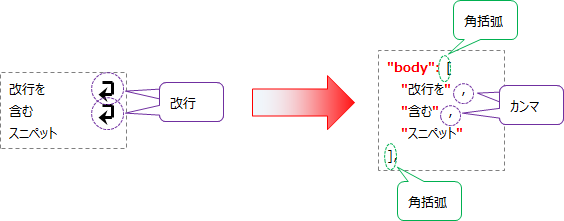
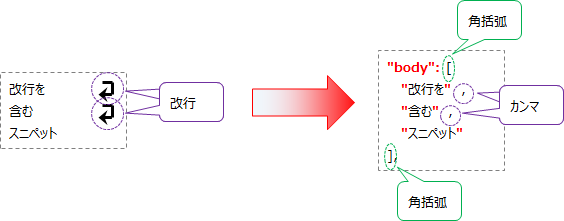
default message

Changed region(s): [[0.7535, 0.0, 0.9344, 0.3801]]

diff --git a/TIPS/04_開発環境/01_Visual Studio/プロジェクトテンプレートの作成.html b/TIPS/04_開発環境/01_Visual Studio/プロジェクトテンプレートの作成.html
@@ -1,16 +1,127 @@
 <!DOCTYPE html>
-<!-- 基準URI -->匁<base href="https://takaha-q.github.io/">
-<!-- スタイルシート -->匁<link rel="stylesheet" href="Sytle001.css" type="text/css">
-<!-- スクリプト -->匁<!-- タイトル表示 -->匁<script src="MakeTitle.js" type="text/javascript"></script>
-<!-- 目次表示 -->匁<script src="MakeToc_L.js" type="text/javascript"></script>
-<!-- ページタイトル(ページ内表示) -->匁<span id="title"></span>
-<!-- リンク(ホームに戻る) -->匁<a href="index.html">ホームに戻る</a>
-<!-- 出典ページ -->匁<details><summary class=link>出典 :</summary>匁    <div class=pre><a href="https://learn.microsoft.com/ja-jp/visualstudio/ide/how-to-create-project-templates?view=vs-2022">ウィザードまたは XML ファイルを使用してプロジェクト テンプレートを作成する - Visual Studio (Windows) | Microsoft Learn</a>匁    <a href="https://learn.microsoft.com/ja-jp/visualstudio/ide/creating-project-and-item-templates?view=vs-2022">プロジェクトとファイルのテンプレート - Visual Studio (Windows) | Microsoft Learn</a>匁    <a href="https://learn.microsoft.com/ja-jp/visualstudio/ide/template-parameters?view=vs-2022">プロジェクト テンプレートと項目テンプレートのパラメーター - Visual Studio (Windows) | Microsoft Learn</a>匁    <a href="https://learn.microsoft.com/ja-jp/visualstudio/ide/how-to-substitute-parameters-in-a-template?view=vs-2022">プロジェクトと項目テンプレートに名前パラメーターを追加する - Visual Studio (Windows) | Microsoft Learn</a>匁    <a href="https://qiita.com/kamikawa_m/items/75c337f101d9d2f6080e">Visual Studioから利用できるプロジェクトテンプレートを作成する #C# - Qiita</a>匁    </div>匁    </details>匁    匁<!-- 関連ページ -->匁<details><summary class=link>関連 :</summary>匁<div class=pre><a href="プロジェクトの場所(デフォルト).html">プロジェクトの場所(デフォルト)</a>
+<!-- 基準URI -->
+<base href="https://takaha-q.github.io/">
+<!-- スタイルシート -->
+<link rel="stylesheet" href="Sytle001.css" type="text/css">
+<!-- スクリプト -->
+<!-- タイトル表示 -->
+<script src="MakeTitle.js" type="text/javascript"></script>
+<!-- 目次表示 -->
+<script src="MakeToc_L.js" type="text/javascript"></script>
+<!-- ページタイトル(ページ内表示) -->
+<span id="title"></span>
+<!-- リンク(ホームに戻る) -->
+<a href="index.html">ホームに戻る</a>
+<!-- 出典ページ -->
+<details><summary class=link>出典 :</summary>
+<div class=pre><a href="https://learn.microsoft.com/ja-jp/visualstudio/ide/creating-project-and-item-templates?view=vs-2022">プロジェクトとファイルのテンプレート - Visual Studio (Windows) | Microsoft Learn</a>
+    <a href="https://learn.microsoft.com/ja-jp/visualstudio/ide/how-to-create-project-templates?view=vs-2022">ウィザードまたは XML ファイルを使用してプロジェクト テンプレートを作成する - Visual Studio (Windows) | Microsoft Learn</a>
+    <a href="https://learn.microsoft.com/ja-jp/visualstudio/ide/template-parameters?view=vs-2022">プロジェクト テンプレートと項目テンプレートのパラメーター - Visual Studio (Windows) | Microsoft Learn</a>
+<a href="https://learn.microsoft.com/ja-jp/visualstudio/ide/how-to-substitute-parameters-in-a-template?view=vs-2022">プロジェクトと項目テンプレートに名前パラメーターを追加する - Visual Studio (Windows) | Microsoft Learn</a>
+<a href="https://learn.microsoft.com/ja-jp/visualstudio/ide/how-to-update-existing-templates?view=vs-2022">既存のプロジェクト項目テンプレートの更新 - Visual Studio (Windows) | Microsoft Learn</a>
+<a href="https://learn.microsoft.com/ja-jp/visualstudio/extensibility/visual-studio-template-schema-reference?view=vs-2022">Visual Studio テンプレート スキーマ参照 - Visual Studio (Windows) | Microsoft Learn</a>
+<a href="https://qiita.com/kamikawa_m/items/75c337f101d9d2f6080e">Visual Studioから利用できるプロジェクトテンプレートを作成する #C# - Qiita</a>
 </div></details>
-<!-- 目次 -->匁<h5>目次 :</h5>匁<div id="toc"></div>匁<hr>
-<!-- 本文ここから -->匁<h2>Visual Studioプロジェクトテンプレートの作成</h2>匁プロジェクトに含まれるファイル群を再利用しやすいよう、テンプレート化することができる。<br>匁以下、Visual Studio 2022を例に挙げる。
-<h2>テンプレートに含まれるファイル</h2>匁プロジェクトに含まれるすべてのファイルおよびフォルダが対象となる。<br>
-<h2>手順</h2>匁<h3>テンプレートの保存</h3>匁<ol>匁    <li>出力するプロジェクトを整理する。<br>(テンプレートに不要なファイルやコードの削除)</li>匁    <li>「プロジェクト」>「テンプレートのエクスポート」を選択する。<br>匁    <img src="https://raw.githubusercontent.com/Takaha-Q/Takaha-Q.github.io/main/_Img\MSVS\Project_Template\05.png" alt="画像"></li>匁</ol>
-<h3>作成したテンプレートの呼び出し</h3>匁手順1で作成したテンプレートは、標準のテンプレートと異なりタグが付与されていないため、絞り込みを解除しなければ表示されない。<br>匁(「すべての言語」、「すべてのプラットフォーム」、「すべてのプロジェクトの種類」を選択することで表示される。)<br>匁テンプレートを特定できる語句を検索欄に入力し、テンプレートを選択する。以降の手順は標準テンプレートを用いる場合と同様。<br>匁<img src="https://raw.githubusercontent.com/Takaha-Q/Takaha-Q.github.io/main/_Img\MSVS\Project_Template\06.png" alt="画像">
-<h3>テンプレートのインポート・削除</h3>匁C:\Users\[ユーザ名]\Documents\Visual Studio 2022\Templates\ProjectTemplates<br>匁にテンプレート(ZIP)を配置すると、呼び出し候補に含まれるようになる。<br>匁テンプレート(ZIP)を削除すると、呼び出し候補に含まれなくなる。<br>匁<img src="https://raw.githubusercontent.com/Takaha-Q/Takaha-Q.github.io/main/_Img\MSVS\Project_Template\07.png" alt="画像">
+    
+<!-- 関連ページ -->
+<details><summary class=link>関連 :</summary>
+<div class=pre><a href="TIPS/04_開発環境/01_Visual Studio/プロジェクトの場所(デフォルト).html">プロジェクトの場所(デフォルト)</a>
+</div></details>
+<!-- 目次 -->
+<h5>目次 :</h5>
+<div id="toc"></div>
+<hr>
+<!-- 本文ここから -->
+
+<h2>Visual Studioプロジェクトテンプレートの作成</h2>
+<div class=pre>プロジェクトテンプレートを作成することで、ファイル群を再利用してプロジェクト作成の手間を省くことができる。
+テンプレートにはプロジェクト配下のすべてのファイルおよびフォルダが含まれる。
+以下、Visual Studio 2022を例に挙げる。
+</div>
+
+<h2>手順</h2>
+<h3>1. テンプレートの作成</h3>
+<ol>
+    <li><span class=pre>出力するプロジェクトを整理する。
+        (テンプレートに不要なファイルやコードの削除)</span></li>
+    <li><span class=pre>「プロジェクト」>「テンプレートのエクスポート」を選択する。
+        <img src="https://raw.githubusercontent.com/Takaha-Q/Takaha-Q.github.io/main/_Img/MSVS/Project_Template/01.png" alt="画像"></span></li>
+    <li><span class=pre>ラジオボタン「プロジェクト テンプレート」にチェックを入れ、
+        テンプレートの元にするプロジェクトを選択し、「次へ」をクリックする。
+        <img src="https://raw.githubusercontent.com/Takaha-Q/Takaha-Q.github.io/main/_Img/MSVS/Project_Template/02.png" alt="画像"></span></li>
+    <li><span class=pre>「テンプレート名」、「テンプレートの説明」を入力し、「完了」をクリックすると、「出力場所」にテンプレート(ZIP)が出力される。
+        このとき、「テンプレートを自動的にVisual Studioにインポート」にチェックが入っていると、作成したテンプレートがインポートされ、使用可能となる。
+        <img src="https://raw.githubusercontent.com/Takaha-Q/Takaha-Q.github.io/main/_Img/MSVS/Project_Template/03.png" alt="画像"></span></li>
+</ol>
+
+<h3>2. テンプレートのインポート</h3>
+<div class=pre>
+    手順1-4で「テンプレートを自動的にVisual Studioにインポート」にチェックを入れた場合はこの手順は不要。
+</div>
+
+<ol>
+    <li><span class=pre>ユーザープロジェクトテンプレートの場所を確認する。任意の場所に変更してもよい。
+            (<a href="TIPS/04_開発環境/01_Visual Studio/プロジェクトの場所(デフォルト).html">プロジェクトの場所(デフォルト)</a>参照。)
+    </span></li>
+    <li><span class=pre>1. の場所にプロジェクトテンプレート(ZIP)を配置する。
+        サブディレクトリ(1. でプロジェクトテンプレートの場所を変更するとサブディレクトリが自動生成される)への配置も可能だが、
+        有効なサブディレクトリ名は限られていることに注意。
+        <img src="https://raw.githubusercontent.com/Takaha-Q/Takaha-Q.github.io/main/_Img/MSVS/Project_Template/04.png" alt="画像"></span></li>
+    <li><span class=pre>2. で配置したテンプレートを削除すると、そのテンプレートは使用できなくなる。</span></li>
+</ol>
+
+<h3>3. テンプレートの呼び出し</h3>
+<div class=pre>手順1で作成したテンプレートは組み込みのテンプレートと同様、プロジェクトの新規作成時に雛形として使用できる。
+    ただし、組み込みテンプレートと異なり、プラットフォームおよびプロジェクト種類のタグが付与されていない。
+    (「言語」はテンプレート作成時に元となったプロジェクトのものが適用される。)
+    「すべてのプラットフォーム」、「すべてのプロジェクトの種類」を選択して絞り込みを解除した上で
+    テンプレートを特定できる語句を検索欄に入力し、テンプレートを選択する。
+    以降は組み込みテンプレートと同様。
+    <img src="https://raw.githubusercontent.com/Takaha-Q/Takaha-Q.github.io/main/_Img\MSVS\Project_Template\05.png" alt="画像">
+</div>
+
+<h3>4. テンプレートの編集</h3>
+<div class=pre>    ※この節は書きかけです。
+    ZIPを解凍し、VSTEMPLATE ファイルを編集することでプロジェクト情報を変更することができる。ファイルの実体はXML。
+    VSTEMPLATE の各要素は<a href="https://learn.microsoft.com/ja-jp/visualstudio/extensibility/visual-studio-template-schema-reference?view=vs-2022">リファレンス</a>を参照。
+</div>
+
+<h4>VSTEMPLATE の例</h4>
+<div class=xaml>
+&lt;<tag>VSTemplate</tag> <prp>Version</prp>=<ltr>"3.0.0"</ltr> <prp>xmlns</prp>=<ltr>"http://schemas.microsoft.com/developer/vstemplate/2005"</ltr> <prp>Type</prp>=<ltr>"Project"</ltr>&gt;
+    &lt;<tag>TemplateData</tag>&gt;
+        &lt;<tag>Name</tag>&gt;WPF_App_Standard&lt;<tag>/Name</tag>&gt;
+        &lt;<tag>Description</tag>&gt;WPFアプリケーション 標準テンプレート&lt;<tag>/Description</tag>&gt;
+        &lt;<tag>ProjectType</tag>&gt;CSharp&lt;<tag>/ProjectType</tag>&gt;
+        &lt;<tag>ProjectSubType</tag>&gt;
+        &lt;<tag>/ProjectSubType</tag>&gt;
+        &lt;<tag>SortOrder</tag>&gt;1000&lt;<tag>/SortOrder</tag>&gt;
+        &lt;<tag>CreateNewFolder</tag>&gt;true&lt;<tag>/CreateNewFolder</tag>&gt;
+        &lt;<tag>DefaultName</tag>&gt;WPF_App_Standard&lt;<tag>/DefaultName</tag>&gt;
+        &lt;<tag>ProvideDefaultName</tag>&gt;true&lt;<tag>/ProvideDefaultName</tag>&gt;
+        &lt;<tag>LocationField</tag>&gt;Enabled&lt;<tag>/LocationField</tag>&gt;
+        &lt;<tag>EnableLocationBrowseButton</tag>&gt;true&lt;<tag>/EnableLocationBrowseButton</tag>&gt;
+        &lt;<tag>CreateInPlace</tag>&gt;true&lt;<tag>/CreateInPlace</tag>&gt;
+        &lt;<tag>Icon</tag>&gt;__TemplateIcon.ico&lt;<tag>/Icon</tag>&gt;
+    &lt;<tag>/TemplateData</tag>&gt;
+    &lt;<tag>TemplateContent</tag>&gt;
+        &lt;<tag>Project</tag> <prp>TargetFileName</prp>=<ltr>"WPF_App_Standard.csproj"</ltr> <prp>File</prp>=<ltr>"WPF_App_Standard.csproj"</ltr> <prp>ReplaceParameters</prp>=<ltr>"true"</ltr>&gt;
+            &lt;<tag>Folder</tag> <prp>Name</prp>=<ltr>"_Asset"</ltr> <prp>TargetFolderName</prp>=<ltr>"_Asset"</ltr> /&gt;
+            &lt;<tag>Folder</tag> <prp>Name</prp>=<ltr>"_Converter"</ltr> <prp>TargetFolderName</prp>=<ltr>"_Converter"</ltr> /&gt;
+            &lt;<tag>Folder</tag> <prp>Name</prp>=<ltr>"_CustomControl"</ltr> <prp>TargetFolderName</prp>=<ltr>"_CustomControl"</ltr> /&gt;
+            &lt;<tag>Folder</tag> <prp>Name</prp>=<ltr>"_Style"</ltr> <prp>TargetFolderName</prp>=<ltr>"_Style"</ltr> /&gt;
+            &lt;<tag>Folder</tag> <prp>Name</prp>=<ltr>"_UserControl"</ltr> <prp>TargetFolderName</prp>=<ltr>"_UserControl"</ltr> /&gt;
+            &lt;<tag>Folder</tag> <prp>Name</prp>=<ltr>"_Window"</ltr> <prp>TargetFolderName</prp>=<ltr>"_Window"</ltr>&gt;
+                &lt;<tag>Folder</tag> <prp>Name</prp>=<ltr>"MainWindow"</ltr> <prp>TargetFolderName</prp>=<ltr>"MainWindow"</ltr>&gt;
+                    &lt;<tag>ProjectItem</tag> <prp>ReplaceParameters</prp>=<ltr>"true"</ltr> <prp>TargetFileName</prp>=<ltr>"MainWindow.xaml"</ltr>&gt;MainWindow.xaml&lt;<tag>/ProjectItem</tag>&gt;
+                    &lt;<tag>ProjectItem</tag> <prp>ReplaceParameters</prp>=<ltr>"true"</ltr> <prp>TargetFileName</prp>=<ltr>"MainWindow.xaml.cs"</ltr>&gt;MainWindow.xaml.cs&lt;<tag>/ProjectItem</tag>&gt;
+                &lt;<tag>/Folder</tag>&gt;
+            &lt;<tag>/Folder</tag>&gt;
+            &lt;<tag>ProjectItem</tag> <prp>ReplaceParameters</prp>=<ltr>"true"</ltr> <prp>TargetFileName</prp>=<ltr>"App.xaml"</ltr>&gt;App.xaml&lt;<tag>/ProjectItem</tag>&gt;
+            &lt;<tag>ProjectItem</tag> <prp>ReplaceParameters</prp>=<ltr>"true"</ltr> <prp>TargetFileName</prp>=<ltr>"App.xaml.cs"</ltr>&gt;App.xaml.cs&lt;<tag>/ProjectItem</tag>&gt;
+            &lt;<tag>ProjectItem</tag> <prp>ReplaceParameters</prp>=<ltr>"true"</ltr> <prp>TargetFileName</prp>=<ltr>"AssemblyInfo.cs"</ltr>&gt;AssemblyInfo.cs&lt;<tag>/ProjectItem</tag>&gt;
+        &lt;<tag>/Project</tag>&gt;
+    &lt;<tag>/TemplateContent</tag>&gt;
+&lt;<tag>/VSTemplate</tag>&gt;
+</div>
 

diff --git a/TIPS/04_開発環境/04_Visual Studio Code/スニペット(VS Code).html b/TIPS/04_開発環境/04_Visual Studio Code/スニペット(VS Code).html
@@ -1,26 +1,78 @@
 <!DOCTYPE html>
-<!-- 基準URI -->匁<base href="https://takaha-q.github.io/">
-<!-- スタイルシート -->匁<link rel="stylesheet" href="Sytle001.css" type="text/css">
-<!-- スクリプト -->匁<!-- タイトル表示 -->匁<script src="MakeTitle.js" type="text/javascript"></script>
-<!-- 目次表示 -->匁<script src="MakeToc_L.js" type="text/javascript"></script>
-<!-- ページタイトル(ページ内表示) -->匁<span id="title"></span>
-<!-- リンク(ホームに戻る) -->匁<a href="index.html">ホームに戻る</a>
+<!-- 基準URI -->
+<base href="https://takaha-q.github.io/">
+<!-- スタイルシート -->
+<link rel="stylesheet" href="Sytle001.css" type="text/css">
+<!-- スクリプト -->
+<!-- タイトル表示 -->
+<script src="MakeTitle.js" type="text/javascript"></script>
+<!-- 目次表示 -->
+<script src="MakeToc_L.js" type="text/javascript"></script>
+<!-- ページタイトル(ページ内表示) -->
+<span id="title"></span>
+<!-- リンク(ホームに戻る) -->
+<a href="index.html">ホームに戻る</a>
 <!-- 出典ページ -->
 </div></details>
-<!-- 関連ページ -->匁<details><summary class=link>関連 :</summary>匁<div class=pre><a href="TIPS/04_開発環境/01_Visual Studio/スニペット(Visual Studio).html">[Visual Studio]スニペット</a>
+<!-- 関連ページ -->
+<details><summary class=link>関連 :</summary>
+<div class=pre><a href="TIPS/04_開発環境/01_Visual Studio/スニペット(Visual Studio).html">[Visual Studio]スニペット</a>
 </div></details>
-<!-- 目次 -->匁<h5>目次 :</h5>匁<div id="toc"></div>匁<hr>
+<!-- 目次 -->
+<h5>目次 :</h5>
+<div id="toc"></div>
+<hr>
 <!-- 本文ここから -->
-<h2>スニペット(ユーザスニペット)の作成</h2>匁よく使う定型文をスニペットとして登録しておくと、簡単に呼び出すことができる。
+<h2>スニペット(ユーザスニペット)の作成</h2>
+よく使う定型文をスニペットとして登録しておくと、簡単に呼び出すことができる。
 <h2>手順</h2>
-<ol>匁<li>匁「設定(歯車アイコン)」>「スニペット」を選択する。<br>匁(旧バージョン : 「ユーザー スニペット」表記)匁<img src="https://raw.githubusercontent.com/Takaha-Q/Takaha-Q.github.io/main/_Img/VSCode/Make_User_Snippet/01.png" alt="画像"><br>匁</li>
-<li>匁スニペットを呼び出すファイル形式を選択する。<br>匁(HTMLファイルであれば html.json )<br>匁<img src="https://raw.githubusercontent.com/Takaha-Q/Takaha-Q.github.io/main/_Img/VSCode/Make_User_Snippet/02.png" alt="画像"><br>匁</li>
-<li>匁JSONファイルが開くので、登録したいスニペットを記述する。<br>匁<img src="https://raw.githubusercontent.com/Takaha-Q/Takaha-Q.github.io/main/_Img/VSCode/Make_User_Snippet/03.png" alt="画像"><br>匁</li>
-<li>匁JSONを上書き保存すると、スニペットが使用可能となる。匁</li>匁</ol>
-<h2>スニペットの記述</h2>匁<div class="code">匁"Snippet #1": {                     <cmt>//< スニペット名 </cmt>匁    "prefix":      "inputStr",      <cmt>//< 入力文字列 </cmt>匁    "body":        "content",       <cmt>//< 展開される内容 </cmt>匁    "description": "What am I"      <cmt>//< スニペットの説明 </cmt>匁},
-"Snippet #2": {                     <cmt>//< スニペット名 </cmt>匁    "prefix":      "inputStr02",    <cmt>//< 入力文字列 </cmt>匁    "body":        "content02",     <cmt>//< 展開される内容 </cmt>匁    "description": "What am I"      <cmt>//< スニペットの説明 </cmt>匁},匁</div>
-<div class=pre>匁"prefix" にスニペットを呼び出す際に入力する文字列を、匁"body" に呼び出される文字列を記述する(詳細は後述)。匁この例では、inputStr と入力し、Tab キーを押すことで匁content 匁を呼び出すことができる。
-また、一つのJSONファイルには複数のスニペットを定義できる。スニペット同士は , (カンマ)で区切る。匁(この例では Snippet #1 、Snippet #2 の2つを定義している。末尾のカンマは削除しなくてもよい。)匁</div>
-<h3>body 要素記述時の注意点</h3>匁<ul>匁    <li>二重引用符はエスケープが必要( " を \" に置き換える)。<br>匁    <img src="https://raw.githubusercontent.com/Takaha-Q/Takaha-Q.github.io/main/_Img/VSCode/Make_User_Snippet/05.png" alt="画像"></li>匁</ul>
-匁
+<ol>
+<li>
+「設定(歯車アイコン)」>「スニペット」を選択する。<br>
+(旧バージョン : 「ユーザー スニペット」表記)<br>
+<img src="https://raw.githubusercontent.com/Takaha-Q/Takaha-Q.github.io/main/_Img/VSCode/Make_User_Snippet/01.png" alt="画像"><br>
+</li>
+<li>
+スニペットを呼び出すファイル形式を選択する。<br>
+(HTMLファイルであれば html.json )<br>
+<img src="https://raw.githubusercontent.com/Takaha-Q/Takaha-Q.github.io/main/_Img/VSCode/Make_User_Snippet/02.png" alt="画像"><br>
+</li>
+<li>
+JSONファイルが開くので、登録したいスニペットを記述する。<br>
+<img src="https://raw.githubusercontent.com/Takaha-Q/Takaha-Q.github.io/main/_Img/VSCode/Make_User_Snippet/03.png" alt="画像"><br>
+</li>
+<li>
+JSONを上書き保存すると、スニペットが使用可能となる。
+</li>
+</ol>
+<h2>スニペットの記述</h2>
+<div class="code">
+"Snippet #1": {                     <cmt>//< スニペット名 </cmt>
+    "prefix":      "inputStr",      <cmt>//< 入力文字列 </cmt>
+    "body":        "content",       <cmt>//< 展開される内容 </cmt>
+    "description": "What am I"      <cmt>//< スニペットの説明 </cmt>
+},
+"Snippet #2": {                     <cmt>//< スニペット名 </cmt>
+    "prefix":      "inputStr02",    <cmt>//< 入力文字列 </cmt>
+    "body":        "content02",     <cmt>//< 展開される内容 </cmt>
+    "description": "What am I"      <cmt>//< スニペットの説明 </cmt>
+},
+</div>
+<div class=pre>
+"prefix" にスニペットを呼び出す際に入力する文字列を、
+"body" に呼び出される文字列を記述する(詳細は後述)。
+この例では、inputStr と入力し、Tab キーを押すことで
+content 
+を呼び出すことができる。
+また、一つのJSONファイルには複数のスニペットを定義できる。スニペット同士は , (カンマ)で区切る。
+(この例では Snippet #1 、Snippet #2 の2つを定義している。末尾のカンマは削除しなくてもよい。)
+</div>
+<h3>body 要素記述時の注意点</h3>
+<ul>
+    <li>二重引用符はエスケープが必要( " を \" に置き換える)。<br>
+        <img src="https://raw.githubusercontent.com/Takaha-Q/Takaha-Q.github.io/main/_Img/VSCode/Make_User_Snippet/04.png" alt="画像"></li>
+    <li>改行を含む場合は行ごとにひとつの語句とし、角括弧で束ねる。<br>
+        (改行をそのまま記述するとエラーとなる。)<br>
+        <img src="https://raw.githubusercontent.com/Takaha-Q/Takaha-Q.github.io/main/_Img/VSCode/Make_User_Snippet/05.png" alt="画像"></li>
+</ul>
 

diff --git a/TIPS/04_開発環境/01_Visual Studio/プロジェクトの場所(デフォルト).html b/TIPS/04_開発環境/01_Visual Studio/プロジェクトの場所(デフォルト).html
@@ -1,7 +1,29 @@
-<!DOCTYPE html>匁<!-- 基準URI -->匁<base href="https://takaha-q.github.io/">匁<!-- スタイルシート -->匁<link rel="stylesheet" href="Sytle001.css" type="text/css">匁<!-- スクリプト -->匁<!-- タイトル表示 -->匁<script src="MakeTitle.js" type="text/javascript"></script>匁<!-- 目次表示 -->匁<script src="MakeToc_L.js" type="text/javascript"></script>匁<!-- ページタイトル(ページ内表示) -->匁<span id="title"></span>匁<!-- リンク(ホームに戻る) -->匁<a href="index.html">ホームに戻る</a>匁<hr>
-<!-- 関連ページ -->匁<details><summary class=link>関連 :</summary>匁<div class=pre><a href="https://takaha-q.github.io/TIPS/04_%E9%96%8B%E7%99%BA%E7%92%B0%E5%A2%83/01_Visual%20Studio/%E3%83%97%E3%83%AD%E3%82%B8%E3%82%A7%E3%82%AF%E3%83%88%E3%83%86%E3%83%B3%E3%83%97%E3%83%AC%E3%83%BC%E3%83%88%E3%81%AE%E4%BD%9C%E6%88%90.html">プロジェクトテンプレートの作成</a>
-</div></details>匁    匁<!-- 本文ここから -->
-<h2>場所の変更</h2>匁プロジェクトやユーザテンプレートの作成・保存場所を変更する際は以下の手順で行う。
-<ol>匁<li>「ツール」 > 「オプション を開く」。</li>匁<li>「プロジェクトおよびソリューション」 > 「場所」 を選択し、各項目を変更する。<br>匁<img src="https://raw.githubusercontent.com/Takaha-Q/Takaha-Q.github.io/main/_Img\MSVS\Project_Location\01.png" alt="画像"></li>匁</ol>
-匁
+<!DOCTYPE html>
+<!-- 基準URI -->
+<base href="https://takaha-q.github.io/">
+<!-- スタイルシート -->
+<link rel="stylesheet" href="Sytle001.css" type="text/css">
+<!-- スクリプト -->
+<!-- タイトル表示 -->
+<script src="MakeTitle.js" type="text/javascript"></script>
+<!-- 目次表示 -->
+<script src="MakeToc_L.js" type="text/javascript"></script>
+<!-- ページタイトル(ページ内表示) -->
+<span id="title"></span>
+<!-- リンク(ホームに戻る) -->
+<a href="index.html">ホームに戻る</a>
+<hr>
+<!-- 関連ページ -->
+<details><summary class=link>関連 :</summary>
+<div class=pre><a href="https://takaha-q.github.io/TIPS/04_%E9%96%8B%E7%99%BA%E7%92%B0%E5%A2%83/01_Visual%20Studio/%E3%83%97%E3%83%AD%E3%82%B8%E3%82%A7%E3%82%AF%E3%83%88%E3%83%86%E3%83%B3%E3%83%97%E3%83%AC%E3%83%BC%E3%83%88%E3%81%AE%E4%BD%9C%E6%88%90.html">プロジェクトテンプレートの作成</a>
+</div></details>
+    
+<!-- 本文ここから -->
+<h2>場所の変更</h2>
+プロジェクトやユーザテンプレートの作成・保存場所を変更する際は以下の手順で行う。
+<ol>
+<li>「ツール」 > 「オプション を開く」。</li>
+<li><span class=pre>「プロジェクトおよびソリューション」 > 「場所」 を選択し、各項目を変更する。
+<img src="https://raw.githubusercontent.com/Takaha-Q/Takaha-Q.github.io/main/_Img\MSVS\Project_Location\01.png" alt="画像"></span></li>
+</ol>
 
